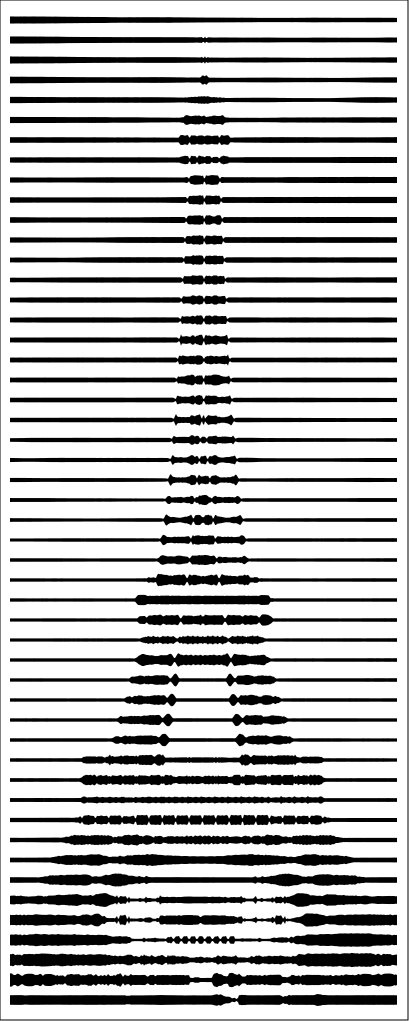
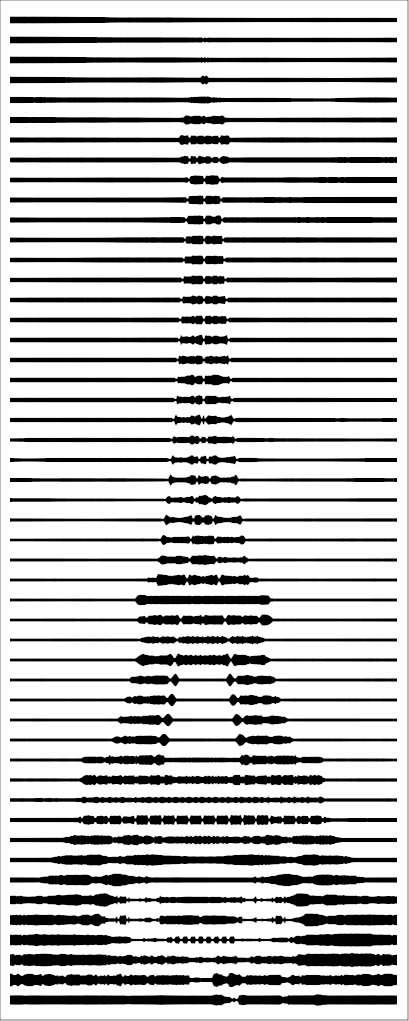
image sizes

diff --git a/README.md b/README.md
@@ -19,8 +19,8 @@ python vasarely.py --file-in images/test3_in.png --file-out images/test3_out.svg
 ```
 Input (any) | Output (SVG)
 :---: | :---:
-<img src="images/test1_in.png" height="200">| <img src="images/test1_out.png" height="200">
-<img src="images/test2_in.png" height="200">| <img src="images/test2_out.png" height="200">
+<img src="images/test1_in.png" width="200">| <img src="images/test1_out.png" width="200">
+<img src="images/test2_in.png" width="350">| <img src="images/test2_out.png" width="350">
 <img src="images/test3_in.png" width="200">| <img src="images/test3_out.png" width="200">
 
 
